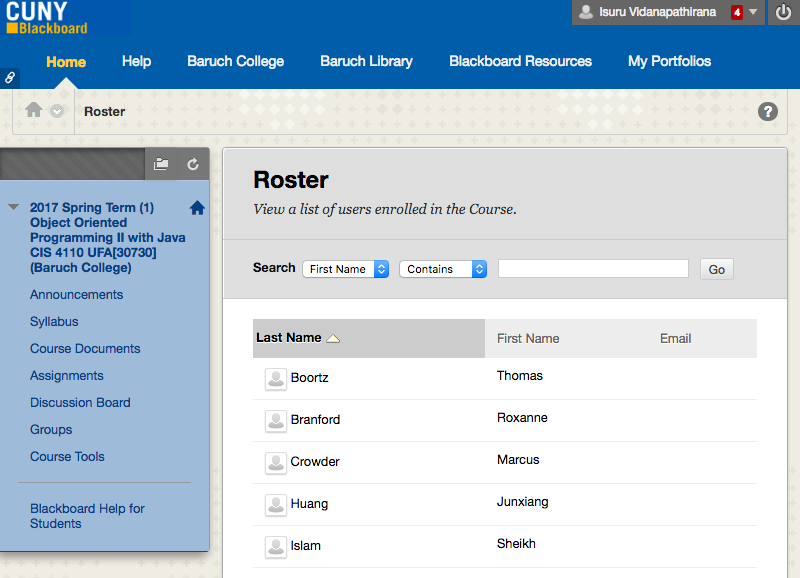
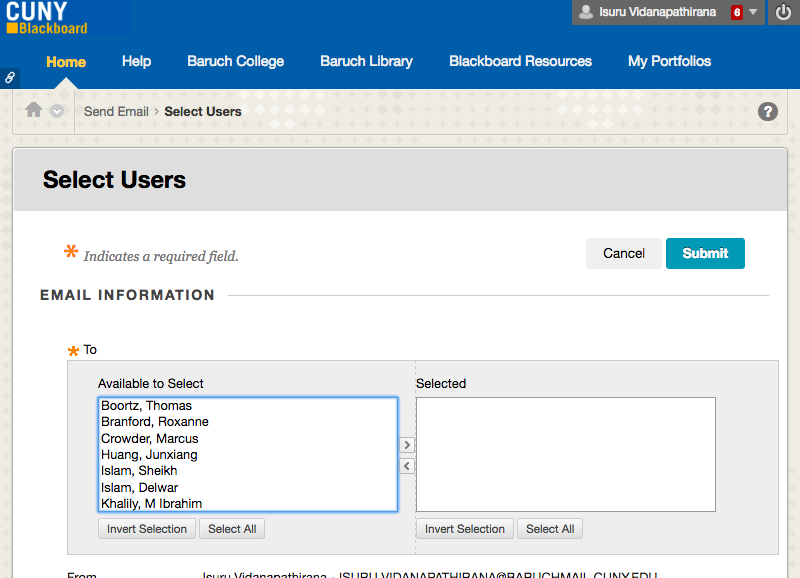
got scraper to return data

diff --git a/server/models/class_info_scraper.js b/server/models/class_info_scraper.js
@@ -12,9 +12,13 @@ var async = require("async");
   }
 
   returnRoster(){
-    return this.getClasses().then((data)=>{
-      return this.rosterLinks;
-    })
+    this.getClasses();
+    return new Promise(function(resolve, reject){
+      //hackish but it works, will wait 20 secs, hopefully enough time to be done scraping.
+    setTimeout(function(){
+        resolve(this.rosterLinks);
+    }, 20000);
+});
   }
 
   getClasses(){
@@ -25,19 +29,22 @@ var async = require("async");
     .evaluate(
     ()=>
       {
-        const classes = document.querySelectorAll('#_4_1termCourses_noterm ul.courseListing a');
+        const classes = document.querySelectorAll('#_4_1termCourses_noterm ul.coursefakeclass a');
+        const studentName = document.querySelector("#global-nav-link").innerHTML.match(/\>(.*)\<span id=/).pop();
         var arr = [];
         for(var i=0; i< classes.length; i++){
-          var extract = classes[i].href.match(/\id=(.*)\&url/).pop();
-          var className = classes[i].innerHTML;
-          arr.push({'id': extract, 'className': className});
+          if(classes[i].href.match(/\id=(.*)\&url/)){
+            var extract = classes[i].href.match(/\id=(.*)\&url/).pop();
+            var className = classes[i].innerHTML;
+            arr.push({'class_id': extract, 'studentName': studentName,'className': className});
+          }
         }
         return arr;
       }
 )
   .then((links)=> {
     this.rosterLinks = links;
-    // console.log(links);
+    console.log(links);
     nightmare
       .wait(1000)
       .then((links)=> {
@@ -45,22 +52,27 @@ var async = require("async");
       });
   });
   }
-
+// `https://bbhosted.cuny.edu/webapps/blackboard/execute/searchRoster?courseId=${this.rosterLinks[i].id}&course_id=${this.rosterLinks[i].id}&action=search&userInfoSearchKeyString=FIRSTNAME&userInfoSearchOperatorString=Contains&userInfoSearchText=`
   runNext(i){
       nightmare
-      .goto(`https://bbhosted.cuny.edu/webapps/blackboard/execute/searchRoster?courseId=${this.rosterLinks[i].id}&course_id=${this.rosterLinks[i].id}&action=search&userInfoSearchKeyString=FIRSTNAME&userInfoSearchOperatorString=Contains&userInfoSearchText=`)
+      .goto(`https://bbhosted.cuny.edu/webapps/blackboard/execute/displayEmail?navItem=email_select_students&course_id=${this.rosterLinks[i].id}`)
       .wait(2000)
       .screenshot(`${this.rosterLinks[i].id}WORKED.png`)
       .evaluate(
         ()=>{
           var students = [];
-          var studentRoster = document.querySelectorAll('#listContainer_databody tr');
+          // var studentRoster = document.querySelectorAll('#listContainer_databody tr');
+          var studentRoster = document.querySelectorAll('#USERS_AVAIL  option');
           console.log(studentRoster);
-          for(var z=0; z<studentRoster.length;z++){
-            var firstName = studentRoster[z].children[1].innerHTML.replace(/\s/g, '');
-            var lastname = studentRoster[z].children[0].children[0].innerHTML.replace(/\<(.*)\>/,"").replace(/\s/g, '');
-            var fullName = firstName + " " + lastname;
-            students.push(fullName);
+          // for(var z=0; z<studentRoster.length;z++){
+          //   var firstName = studentRoster[z].children[1].innerHTML.replace(/\s/g, '');
+          //   var lastname = studentRoster[z].children[0].children[0].innerHTML.replace(/\<(.*)\>/,"").replace(/\s/g, '');
+          //   var fullName = firstName + " " + lastname;
+          //   students.push(fullName);
+          // }
+          for(var z=0; z<studentRoster.length; z++){
+            var name = studentRoster[z].innerHTML;
+            students.push(name);
           }
             return students;
         }
@@ -75,7 +87,6 @@ var async = require("async");
         } else {
             console.log(this.rosterLinks);
             console.log("End");
-            // this.returnRoster();
             nightmare.halt();
         }
      })
@@ -86,5 +97,3 @@ var async = require("async");
 
 }
 export default ClassInfoScraper;
-// var scrapper = new ClassInfoScraper('isuru0123','509973006');
-// scrapper.getClasses();

diff --git a/server/controllers/userController.js b/server/controllers/userController.js
@@ -6,19 +6,11 @@ userController.post = (req, res) => {
   const { username, password } = req.body;
   console.log(req.body);
   var scraper = new Scraper(username, password);
-  // var p1 = new Promise(
-  //     // The resolver function is called with the ability to resolve or
-  //     // reject the promise
-  //     (resolve, reject)=>{
-  //         var scraper = new Scraper('isuru0123', '509973006');
-  //         resolve(scraper.getClasses());
-  //     }
-  // );
-
+  console.log(scraper.returnRoster());
   scraper.returnRoster().then((classData) => {
     res.status(200).json({
       success: true,
-      data: classData,
+      data: scraper.rosterLinks,
     });
   }).catch((err) => {
     res.status(500).json({
@@ -29,13 +21,3 @@ userController.post = (req, res) => {
 };
 
 export default userController;
-
-
-// var p1 = new Promise(
-//     // The resolver function is called with the ability to resolve or
-//     // reject the promise
-//     function(resolve, reject) {
-//         var scraper = new Scraper('isuru0123', '509973006');
-//         scraper.getClasses();
-//     }
-// );
